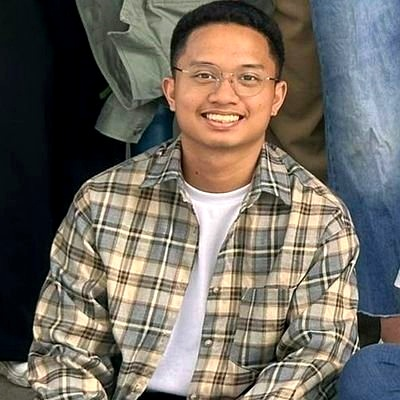
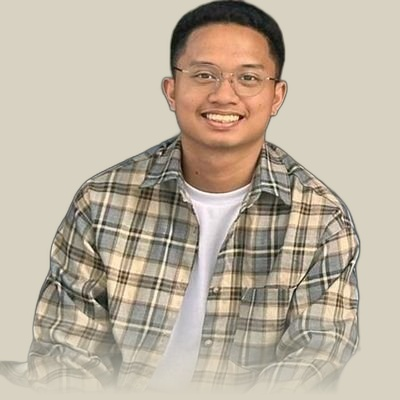
style: improve the photo portfolio on index

diff --git a/index.html b/index.html
@@ -24,7 +24,7 @@
   <main>
     <div class="profile-section">
       <div class="img-container">
-        <img src="img/portraitme.jpg" alt="My Photo" class="profile-photo">
+        <img src="img/portrait_slight_dark_beige.jpg" alt="My Photo" class="profile-photo">
       </div>
       <h1><span class="symbol" style="margin-right: 2px;">:~$ echo</span> "Dean Harley Pal"</h1>
       <p>Been coding for <span class="highlight">+2 years</span> and working for less than a year. <span class="highlight1">Web & Backend Developer</span> building small but meaningful projects. Always learning, always building, always improving. Let’s connect. I’d love to hear from you :D<span class="pipesymbol">|</span></p>
